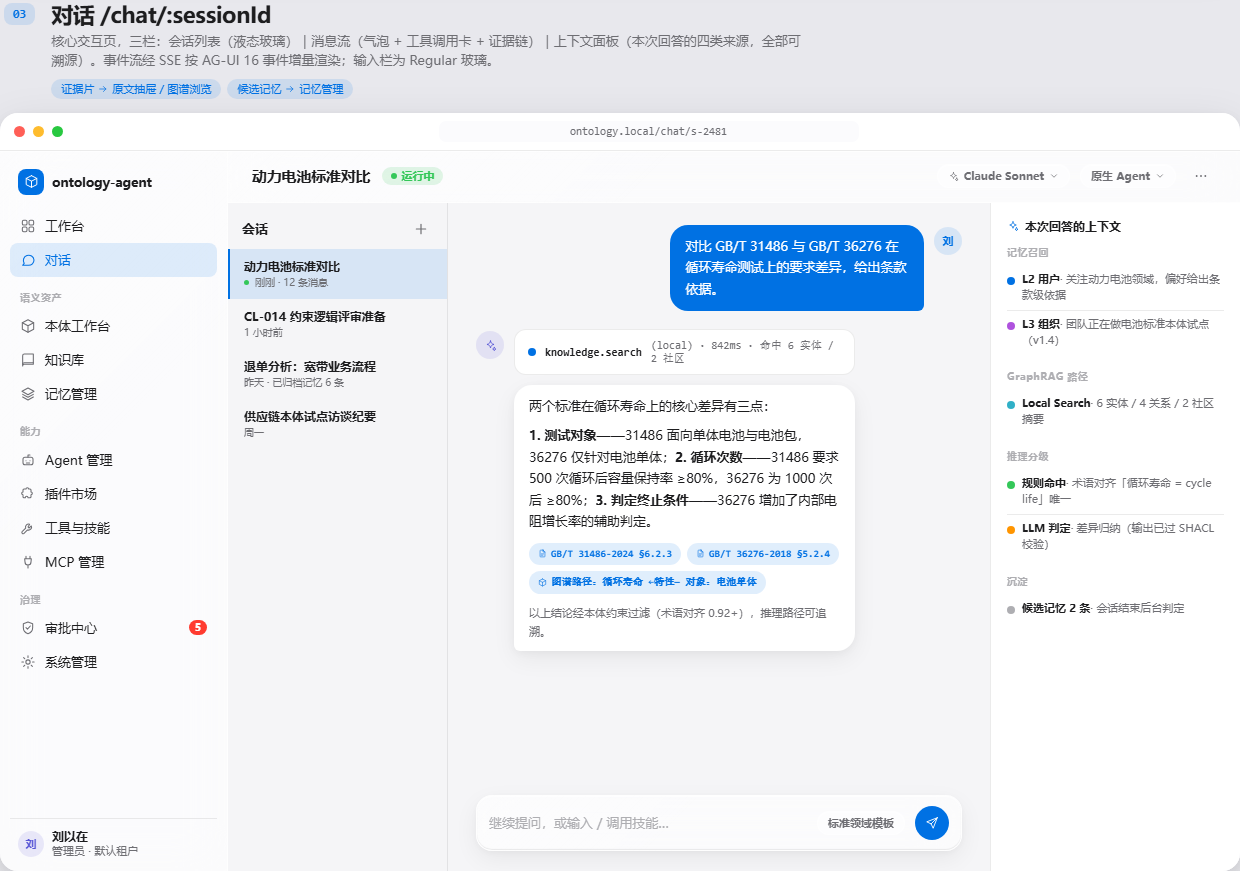
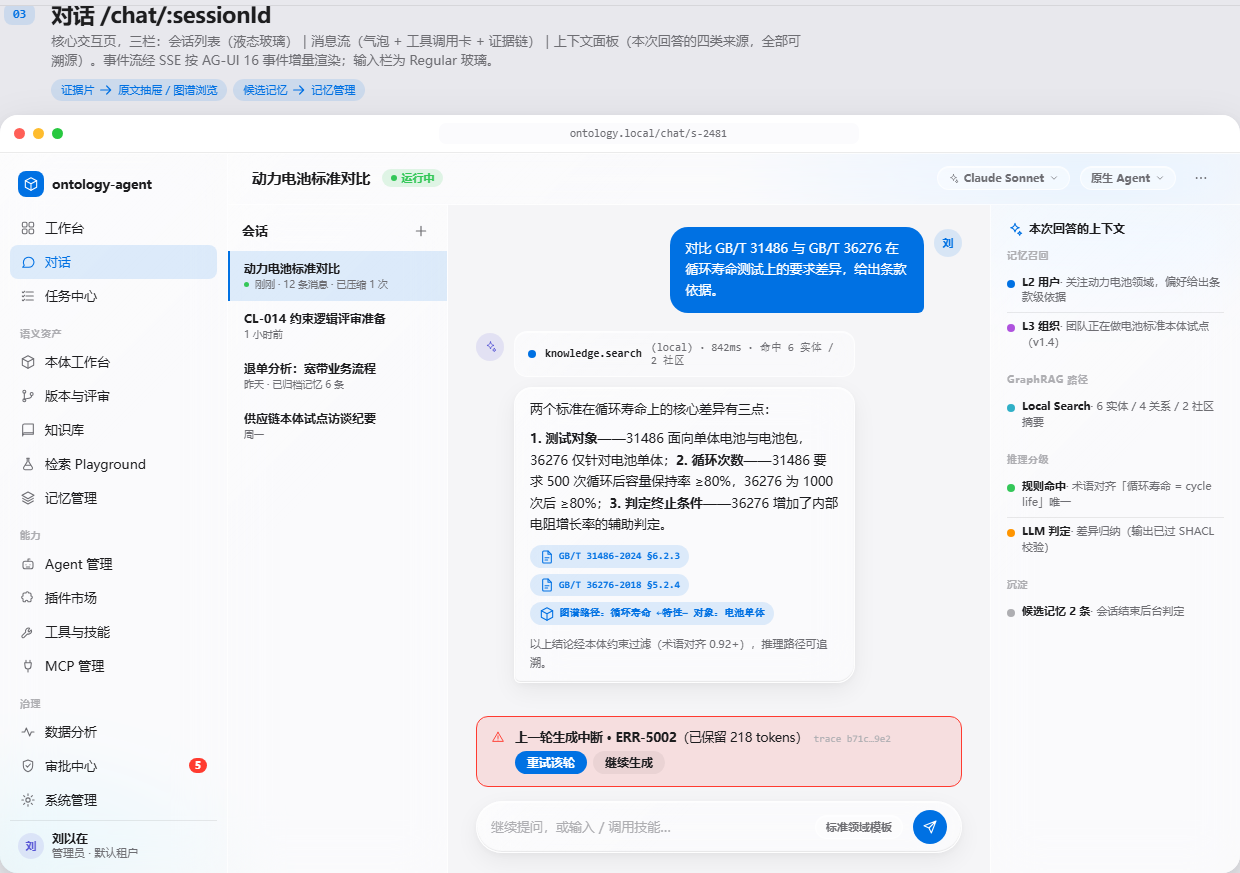
style(design): 对话页专项优化——助手气泡玻璃材质(Regular)、输入栏胶囊化(iOS 26 形态)、工具卡 Clear 档 13px；气泡 18px+尾角 6px 与 iOS Messages 对齐

diff --git a/docs/设计稿/assets/board.css b/docs/设计稿/assets/board.css
@@ -414,21 +414,29 @@ body{font-family:var(--font);background:var(--board);color:var(--label);
 .m-u{align-self:flex-end;flex-direction:row-reverse;max-width:60%}
 .bubble{border-radius:18px;padding:11px 15px;font-size:13px;line-height:1.65}
 .bubble-u{background:var(--accent);color:var(--on-accent);border-bottom-right-radius:6px}
-.bubble-a{background:var(--surface);box-shadow:var(--sh-card);border-bottom-left-radius:6px}
+.bubble-a{border-bottom-left-radius:6px;
+  background:linear-gradient(135deg,var(--glass-tint),transparent 42%),var(--glass-regular);
+  -webkit-backdrop-filter:blur(24px) saturate(220%);backdrop-filter:blur(24px) saturate(220%);
+  border:1px solid var(--glass-border);
+  box-shadow:inset 0 1px 0 var(--glass-hi),inset 0 -1px 1px var(--glass-lo),var(--sh-card)}
 .bubble-a p+p{margin-top:8px}
 .ev-row{display:flex;gap:6px;flex-wrap:wrap;margin-top:10px}
 .ev-chip{display:inline-flex;align-items:center;gap:4px;font-size:10px;font-weight:600;
   color:var(--accent);background:var(--accent-soft);border-radius:var(--r-pill);padding:3px 9px;
   font-family:var(--mono)}
 .ev-chip svg{width:9px;height:9px}
-.toolcard{display:flex;align-items:center;gap:9px;background:var(--surface);border:1px solid var(--separator);
-  border-radius:12px;padding:9px 13px;font-family:var(--mono);font-size:11px;color:var(--label-2)}
+.toolcard{display:flex;align-items:center;gap:9px;
+  background:linear-gradient(135deg,var(--glass-tint),transparent 42%),var(--glass-clear);
+  -webkit-backdrop-filter:blur(24px) saturate(220%);backdrop-filter:blur(24px) saturate(220%);
+  border:1px solid var(--glass-border);border-radius:13px;padding:9px 13px;
+  font-family:var(--mono);font-size:11px;color:var(--label-2);
+  box-shadow:inset 0 1px 0 var(--glass-hi)}
 .toolcard .tn{color:var(--label);font-weight:600}
 .input-bar{flex:none;display:flex;align-items:center;gap:10px;margin:0 28px 20px;
   background:linear-gradient(135deg,var(--glass-tint),transparent 42%),var(--glass-regular);
   backdrop-filter:blur(24px) saturate(200%);-webkit-backdrop-filter:blur(24px) saturate(200%);
-  border:1px solid var(--glass-border);border-radius:16px;
-  padding:10px 12px;box-shadow:inset 0 1px 0 var(--glass-hi),inset 0 -1px 1px var(--glass-lo),var(--sh-card)}
+  border:1px solid var(--glass-border);border-radius:var(--r-pill);
+  padding:8px 14px;box-shadow:inset 0 1px 0 var(--glass-hi),inset 0 -1px 1px var(--glass-lo),var(--sh-card)}
 .input-bar .fakeinput{flex:1;font-size:13px;color:var(--label-3)}
 .chipmodel{display:inline-flex;align-items:center;gap:5px;font-size:11px;font-weight:600;
   color:var(--label-2);background:var(--glass-clear);border:1px solid var(--glass-border);

diff --git a/docs/设计稿/ui-pages.html b/docs/设计稿/ui-pages.html
@@ -205,7 +205,7 @@
       <div class="fnum">03</div>
       <div>
         <h2>对话 /chat/:sessionId</h2>
-        <p>核心交互页，三栏：会话列表（液态玻璃）｜消息流（气泡 + 工具调用卡 + 证据链）｜上下文面板（本次回答的四类来源，全部可溯源）。事件流经 SSE 按 AG-UI 16 事件增量渲染；输入栏为 Regular 玻璃。</p>
+        <p>核心交互页，三栏：会话列表（液态玻璃）｜消息流（用户气泡实底蓝、助手气泡 Regular 玻璃、工具卡 Clear 档、证据链）｜上下文面板。圆角体系：气泡 18+尾角 6（iOS Messages 同款）、输入栏胶囊。事件流经 SSE 按 AG-UI 16 事件增量渲染。</p>
         <div class="jumps">
           <span class="jump-chip">证据片 <svg><use href="#i-arrow-r"/></svg> 原文抽屉 / 图谱浏览</span>
           <span class="jump-chip">候选记忆 <svg><use href="#i-arrow-r"/></svg> 记忆管理</span>
